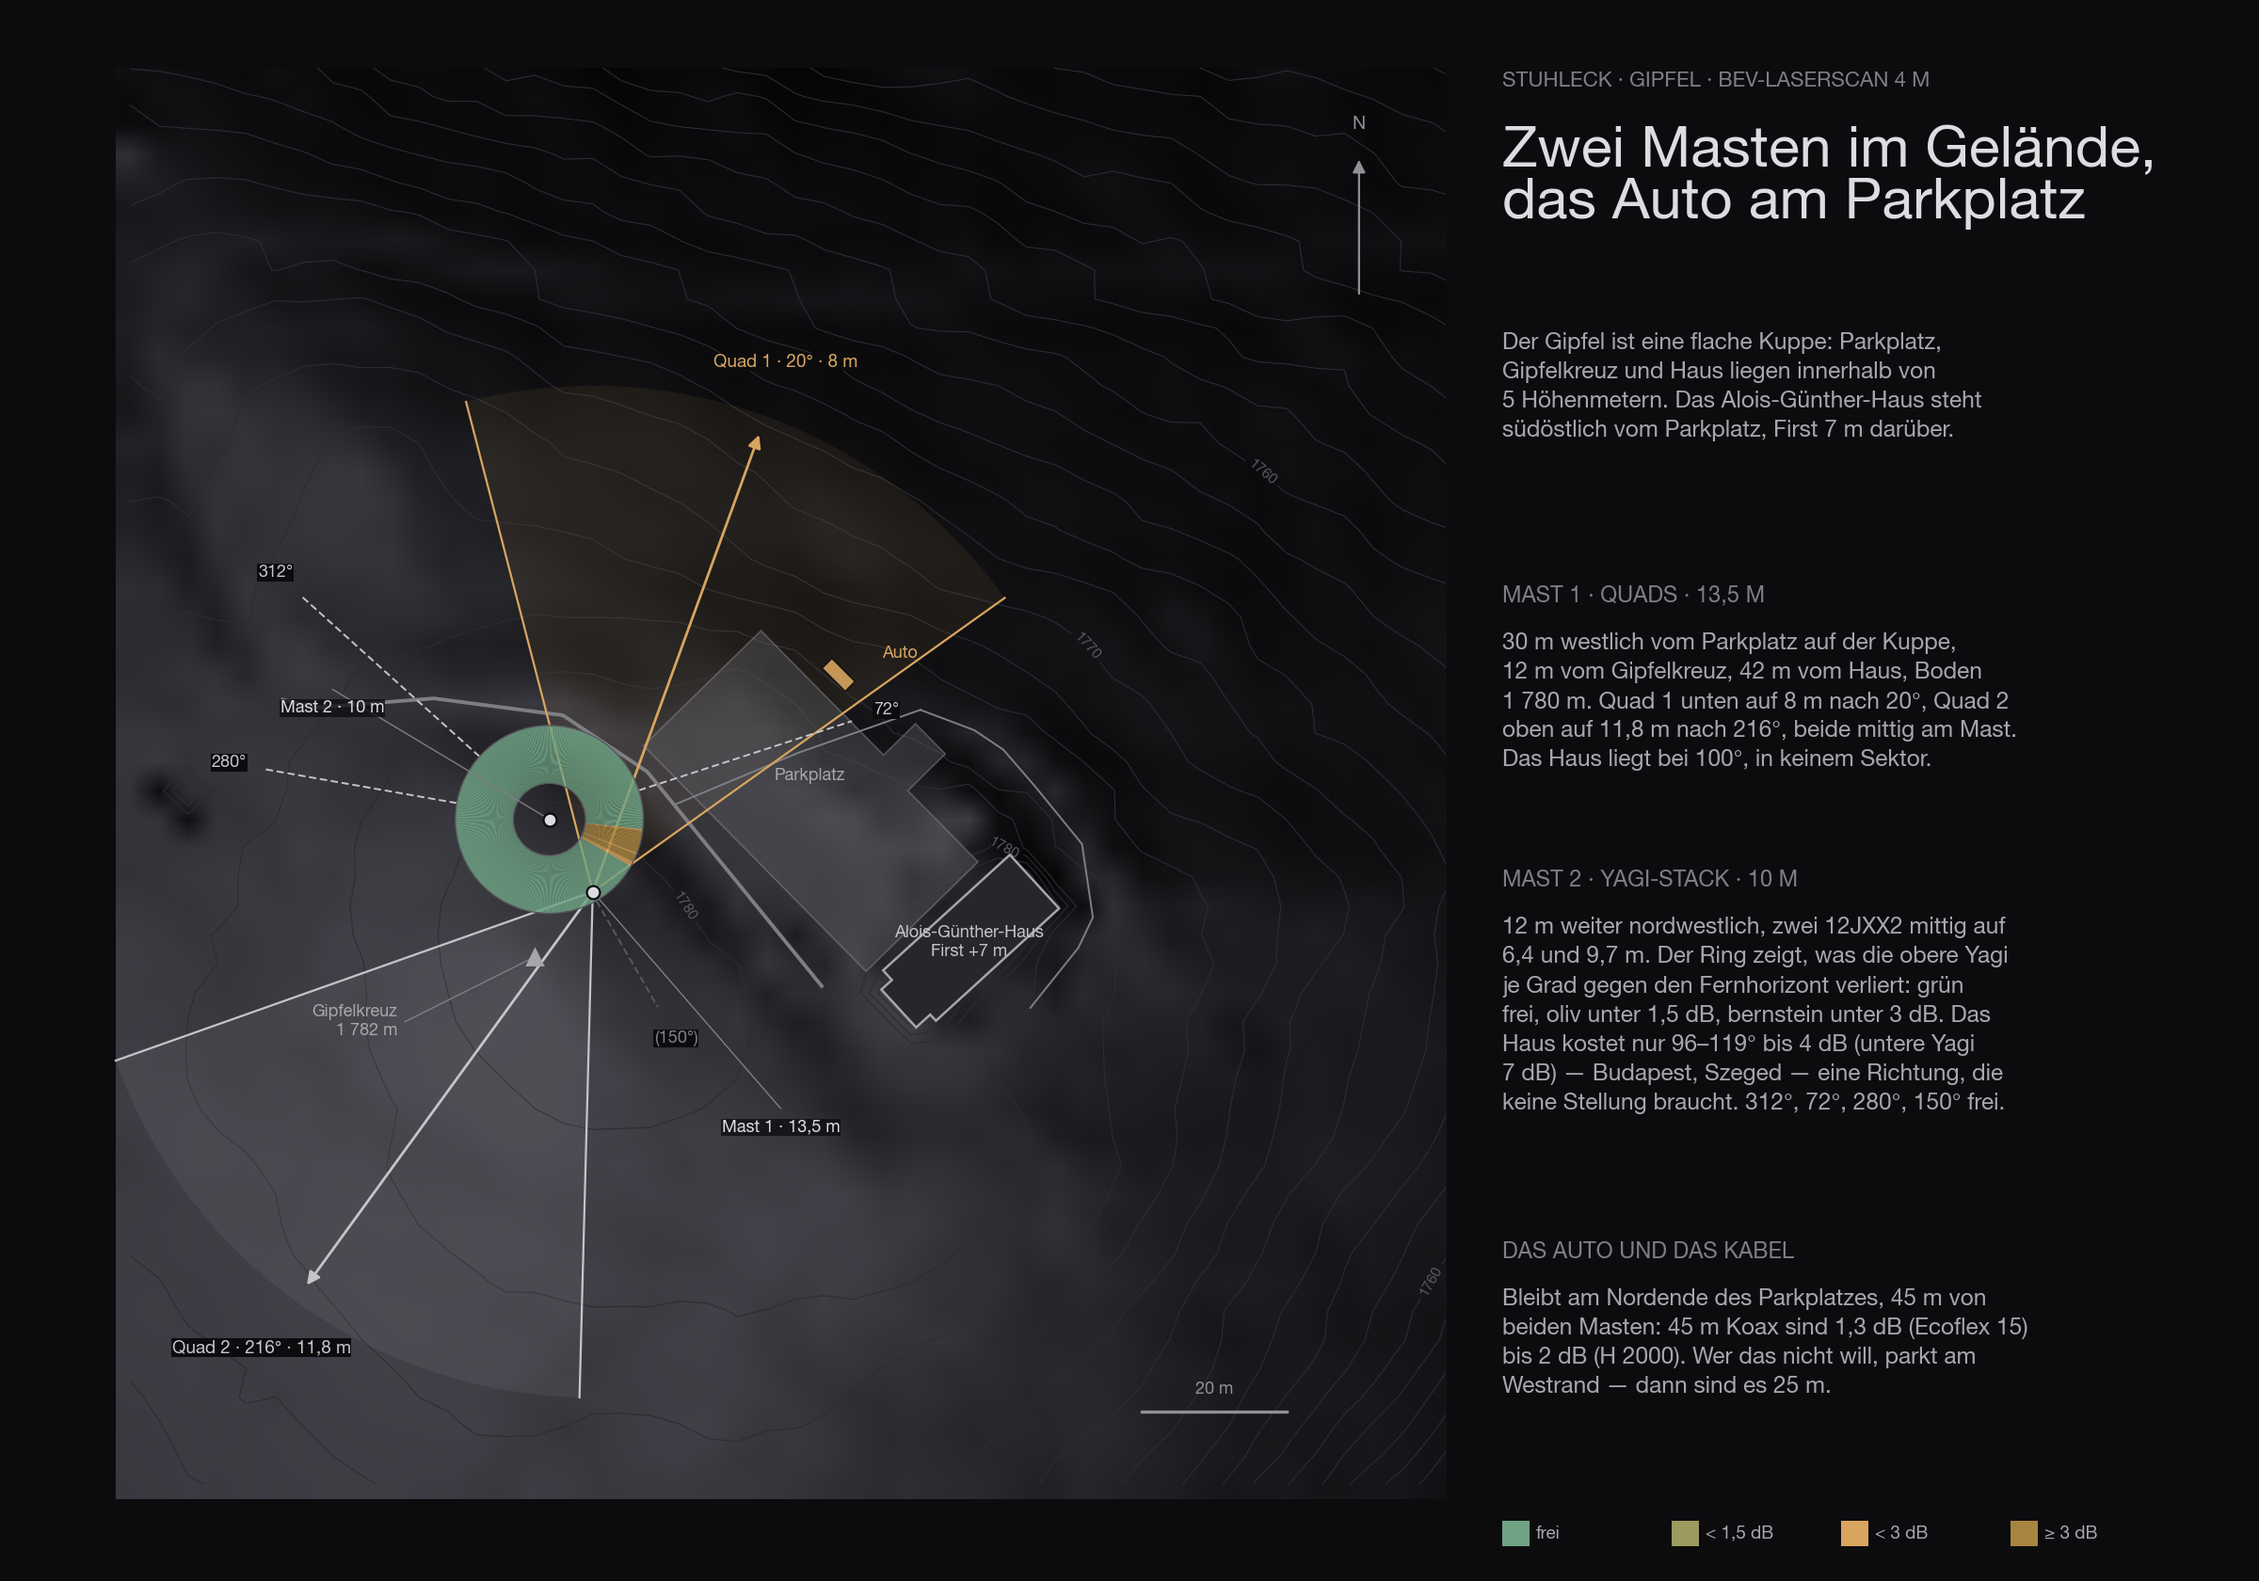
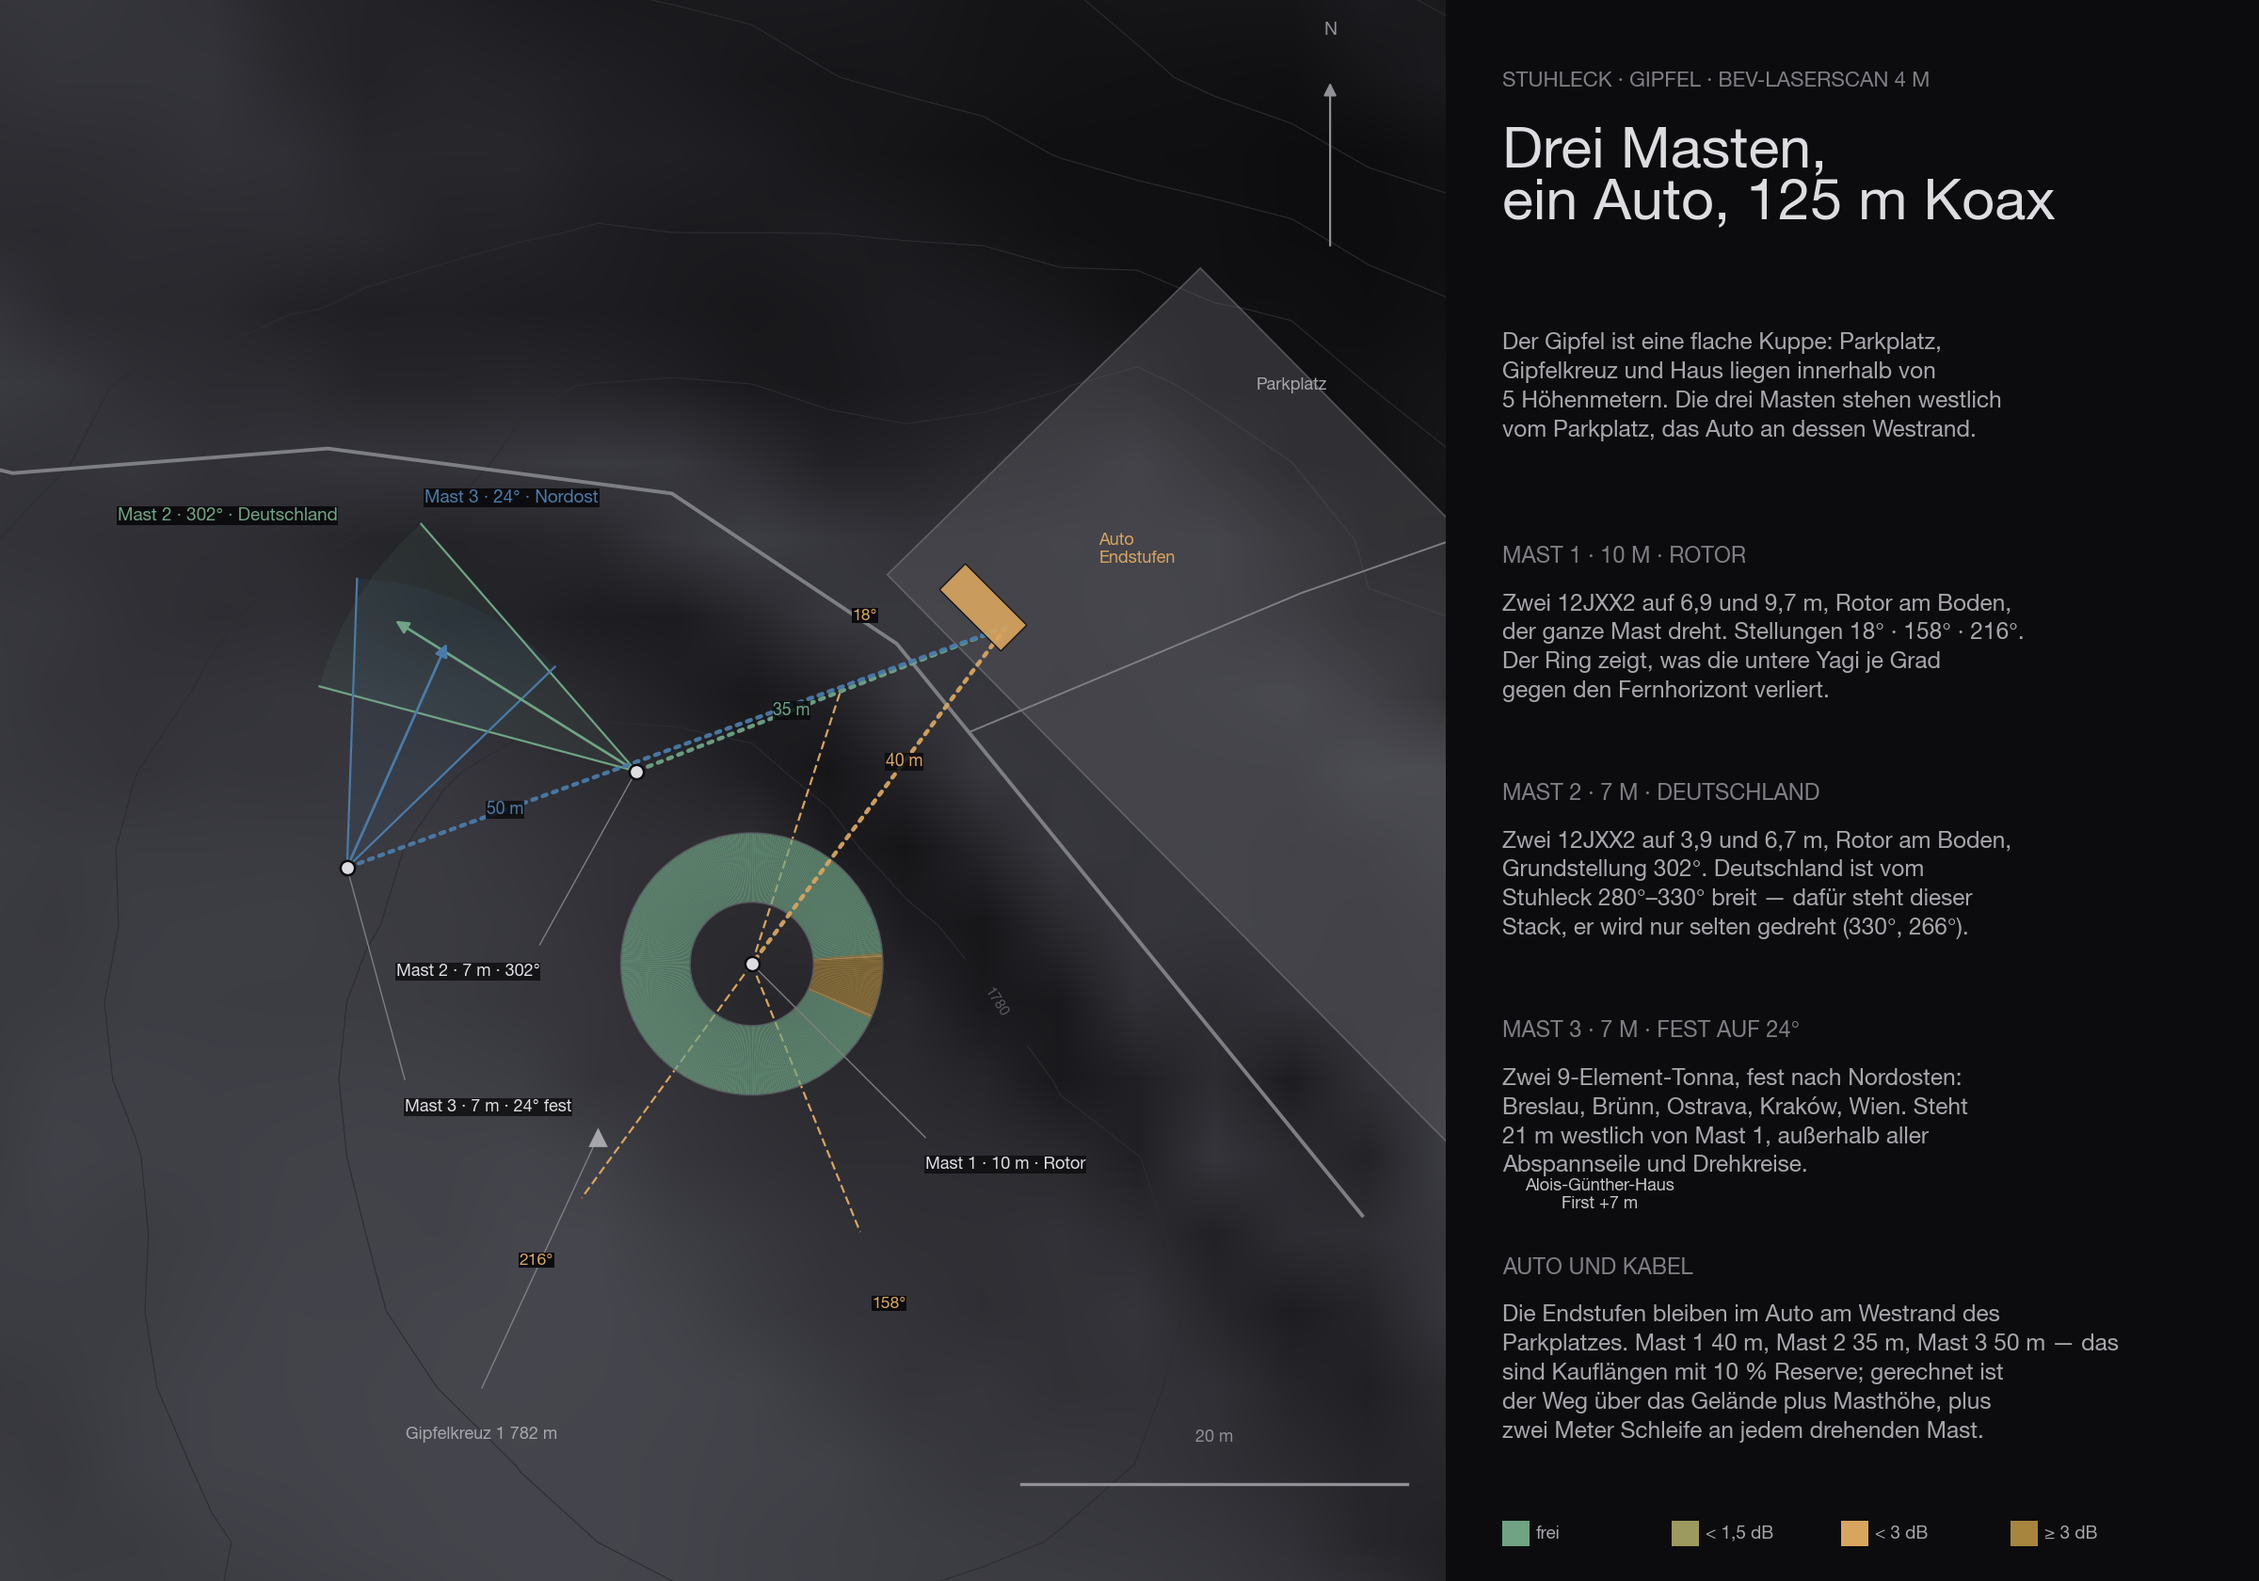
Stuhleck: Lageplan auf drei Masten, Koaxwege und Auto
Der Lageplan zeigte noch den ersten Plan — zwei Masten mit Quads, kein
Kabel, kein Auto —, waehrend Text und 3D-Szene laengst bei drei Masten
sind. Neu gezeichnet aus dem Laserscan:

  Mast 1  10 m, Rotor am Boden, 2 x 12JXX2, Stellungen 18/158/216 als
          gestrichelte Strahlen, dazu der Ring mit dem Verlust der unteren
          Yagi je Grad
  Mast 2   7 m, 2 x 12JXX2, Grundstellung 302 Grad nach Deutschland
  Mast 3   7 m, 2 x 9-el-Tonna fest auf 24 Grad
  Auto     am Westrand des Parkplatzes, die drei Koaxwege gepunktet und
           mit ihren Kauflaengen beschriftet

Die Kabellaengen rechnet `kabel3.py` mit derselben Formel wie die 3D-Szene
(Weg ueber das Laserscan-Gelaende + Masthoehe + Schleife am drehenden Mast
+ 2 m ins Auto, +10 % auf volle 5 m): 40 / 35 / 50 m, zusammen 125 m. Sie
stimmen mit den Zahlen ueberein, die seit dem 30.09. im Text stehen — die
Grafik ist also nicht neu erfunden, sondern nachgezogen.

Der Plan haengt jetzt im Abschnitt "Masten und Abspannung", der den
heutigen Stand beschreibt, statt im frueheren Quad-Abschnitt; dort steht
ein Satz, der nach unten verweist. Eine Grafik je Sache, am richtigen
Platz.

Werkzeug: `stuhleck/lageplan_st3.py` (loest lageplan_st.py ab) liest
kabel3.json und final_plan3.json, damit Plan und Szene nicht
auseinanderlaufen koennen.

Nebenher repariert: neun Skripte in horizont-werkzeug zeigten noch auf den
Sitzungs-Scratchpad von Mitte September, den macOS laengst geloescht hat —
[…]

diff --git a/src/content/posts/es/stuhleck-horizont.md b/src/content/posts/es/stuhleck-horizont.md
@@ -57,9 +57,7 @@ El plan del Feuerkogel — dos cuadros fijos hacia Alemania, la Yagi para el res
 
 En el mástil 2 van dos Yagis de 12 elementos una sobre otra, a 6,4 y 9,7 metros, montadas por el centro del boom y girando juntas sobre el tubo del rotor — aquí no hay ningún tejado que estorbe a la de abajo. El stack tiene tres posiciones. **312°** es la que no se puede omitir: la ventana alemana, Núremberg, Ratisbona, Passau, Linz, Erfurt, 225 estaciones a 509 kilómetros de media — y desde ahí veinte grados más allá, hacia 335° a 345° a través de la Rax, donde esperan Praga, Dresde y Berlín con cuatro a ocho decibelios. **72°** es el hueco entre los cuadros: Bratislava, Košice, Leópolis, 132 estaciones, entre ellas 46 logs ucranianos. **280°** trae Múnich, Innsbruck y Suiza, 136. Quien prefiera coleccionar países antes que Baviera toma **150°** en vez de 280°: Sarajevo, Split, el norte de Bosnia, 95. Con las tres posiciones son 1473 de las 1741 estaciones alcanzables, el 85 por ciento, 663 000 kilómetros en suma — más de lo que tiene el Feuerkogelhaus en total.
 
-![Plano de situación de la cumbre del Stuhleck a partir del escaneo láser: aparcamiento, Alois-Günther-Haus, cruz de la cumbre, dos mástiles treinta metros al oeste del aparcamiento sobre la loma con las cuñas de los cuadros a 20° y 216° y un anillo alrededor del mástil 2 que muestra grado a grado la pérdida de la Yagi — verde en todo el contorno, ámbar solo de 96° a 119°](../../../assets/karten/stuhleck-lageplan.png)
-
-El escaneo láser decide dónde van los mástiles. La cumbre es una loma plana; aparcamiento, cruz y refugio quedan dentro de cinco metros de desnivel; el refugio está al sureste del aparcamiento, la cumbrera siete metros por encima. Desde el centro del aparcamiento una antena a diez metros paga hasta ocho decibelios entre 121° y 175° — el norte de Croacia, Bosnia. Treinta metros más al oeste, sobre la loma entre el aparcamiento y la cruz, el refugio ha pasado a 100° y ya no hace nada: los dos cuadros están libres en sus sectores, también el de abajo a ocho metros, y el stack solo pierde entre 96° y 119° — Budapest, Szeged — cuatro decibelios arriba y siete abajo, una dirección que ninguna de sus tres posiciones necesita. Ahí van los mástiles, a doce metros uno de otro, el mástil 1 a doce metros de la cruz y 42 del refugio, el mástil 2 a diecinueve y 51. El coche se queda en el aparcamiento, 45 metros de cable, de uno a dos decibelios. El Stuhleck es el primer emplazamiento de la serie en el que ningún tejado importa.
+El escaneo láser decide dónde van los mástiles. La cumbre es una loma plana; aparcamiento, cruz y refugio quedan dentro de cinco metros de desnivel; el refugio está al sureste del aparcamiento, la cumbrera siete metros por encima. Desde el centro del aparcamiento una antena a diez metros paga hasta ocho decibelios entre 121° y 175° — el norte de Croacia, Bosnia. Treinta metros más al oeste, sobre la loma entre el aparcamiento y la cruz, el refugio ha pasado a 100° y ya no hace nada: los dos cuadros están libres en sus sectores, también el de abajo a ocho metros, y el stack solo pierde entre 96° y 119° — Budapest, Szeged — cuatro decibelios arriba y siete abajo, una dirección que ninguna de sus tres posiciones necesita. Ahí van los mástiles, a doce metros uno de otro, el mástil 1 a doce metros de la cruz y 42 del refugio, el mástil 2 a diecinueve y 51. El coche se queda en el aparcamiento. El Stuhleck es el primer emplazamiento de la serie en el que ningún tejado importa. Hasta aquí el primer plan; cómo queda la instalación hoy —tres mástiles, los tendidos de coaxial calculados y el coche— lo muestra el plano de situación más abajo.
 
 ## En tres dimensiones
 
@@ -113,6 +111,8 @@ El [plano de situación en PDF, revisión 4](/karten/stuhleck-lageplan-antennena
 **Añadido, 29 de septiembre: también dos Yagis en el mástil 1.** En lugar del stack de cuadros, un segundo stack de 12JXX2 va en el rotor del mástil 1, a 6,4 y 9,7 metros, como en el Feuerkogel. El lóbulo se estrecha, 34 en vez de 69 grados, con 3,3 decibelios más. Las tres posiciones, calculadas con la misma regla y fuera del sector prohibido: **18°** Breslavia, Brno, Viena, Poznań; **158°** Sarajevo, Split, Banja Luka, Skopie; **216°** Liubliana, Rijeka, Trieste, Venecia, Bolonia. Con 500 vatios en cada stack son **948 estaciones en vez de 894**, Alemania 316 como antes, y 330 000 en vez de 270 000 kilómetros — la ganancia llega más lejos. Conmutado con un kilovatio son 1308 en vez de 1331: a corta distancia el cuadro ancho consigue más, 1006 frente a 869 hasta 500 kilómetros; las Yagis consiguen a cambio la distancia. La hoja de arriba y la escena 3D ya muestran los dos stacks de Yagis; el texto de arriba describe todavía el plan con los cuadros.
 
 ## Mástiles y vientos
+
+![Plano de situación de la cumbre del Stuhleck a partir del escaneo láser: aparcamiento, cruz de la cumbre y tres mástiles al oeste — el mástil 1 con el anillo que muestra grado a grado la pérdida de la Yagi inferior y sus tres posiciones de rotor a trazos en 18°, 158° y 216°, el mástil 2 con la cuña verde hacia 302° y el mástil 3 con la azul hacia 24°; desde el coche en el borde oeste del aparcamiento tres tendidos de coaxial punteados llegan a los mástiles, rotulados con 40, 35 y 50 metros](../../../assets/karten/stuhleck-lageplan.png)
 
 <figure class="szene">
   <iframe src="/stuhleck-masten-3d.html?v=8" title="Cumbre del Stuhleck en 3D con tres mástiles: dos veces dos 12JXX2 con rotor en el suelo y dos Tonna de 9 elementos fijas en 24°, cada viento con longitud y ángulo" loading="lazy" allowfullscreen></iframe>

diff --git a/src/content/posts/stuhleck-horizont.md b/src/content/posts/stuhleck-horizont.md
@@ -57,9 +57,7 @@ Der Plan vom Feuerkogel — zwei feste Quads nach Deutschland, die Yagi für den
 
 Auf Mast 2 sitzen zwei 12-Element-Yagis übereinander, auf 6,4 und 9,7 Metern, mittig am Boom und gemeinsam auf dem Drehrohr — hier gibt es kein Dach, das der unteren im Weg stünde. Der Stack hat drei Stellungen. **312°** ist die, die man nicht weglassen kann: das deutsche Fenster, Nürnberg, Regensburg, Passau, Linz, Erfurt, 225 Stationen mit 509 Kilometern im Schnitt — und von dort aus zwanzig Grad weiter nach 335° bis 345° durch die Rax, wo Prag, Dresden und Berlin mit vier bis acht Dezibel warten. **72°** ist die Lücke zwischen den Quads: Bratislava, Košice, Lwiw, 132 Stationen, darunter 46 ukrainische Logs. **280°** bringt München, Innsbruck und die Schweiz, 136. Wer lieber Länder sammelt als Bayern, nimmt statt 280° die **150°**: Sarajevo, Split, Nordbosnien, 95. Mit den drei Stellungen sind es 1 473 der 1 741 erreichbaren Stationen, 85 Prozent, 663 000 Summenkilometer — mehr, als das Feuerkogelhaus insgesamt hat.
 
-![Lageplan des Stuhleck-Gipfels aus dem Laserscan: Parkplatz, Alois-Günther-Haus, Gipfelkreuz, zwei Masten dreißig Meter westlich vom Parkplatz auf der Kuppe mit den Quad-Keilen bei 20° und 216° und ein Ring um Mast 2, der je Grad den Verlust der Yagi zeigt — rundum grün, nur bei 96° bis 119° bernstein](../../assets/karten/stuhleck-lageplan.png)
-
-Der Laserscan entscheidet, wo die Masten stehen. Der Gipfel ist eine flache Kuppe, Parkplatz, Gipfelkreuz und Haus liegen innerhalb von fünf Höhenmetern; das Haus steht südöstlich vom Parkplatz, der First sieben Meter darüber. Von der Parkplatzmitte aus kostet es eine Antenne auf zehn Metern zwischen 121° und 175° bis zu acht Dezibel — Nordkroatien, Bosnien. Dreißig Meter weiter westlich, auf der Kuppe zwischen Parkplatz und Gipfelkreuz, ist das Haus auf 100° gerückt und tut nichts mehr: beide Quads sind in ihren Sektoren frei, auch der untere auf acht Metern, und der Stack verliert nur zwischen 96° und 119° — Budapest, Szeged — vier Dezibel oben und sieben unten, eine Richtung, die keine seiner drei Stellungen braucht. Dort stehen die Masten, zwölf Meter auseinander, Mast 1 zwölf Meter vom Gipfelkreuz und 42 vom Haus, Mast 2 neunzehn und 51. Das Auto bleibt am Parkplatz, 45 Meter Kabel, ein bis zwei Dezibel. Das Stuhleck ist der erste Standort der Reihe, an dem kein Dach eine Rolle spielt.
+Der Laserscan entscheidet, wo die Masten stehen. Der Gipfel ist eine flache Kuppe, Parkplatz, Gipfelkreuz und Haus liegen innerhalb von fünf Höhenmetern; das Haus steht südöstlich vom Parkplatz, der First sieben Meter darüber. Von der Parkplatzmitte aus kostet es eine Antenne auf zehn Metern zwischen 121° und 175° bis zu acht Dezibel — Nordkroatien, Bosnien. Dreißig Meter weiter westlich, auf der Kuppe zwischen Parkplatz und Gipfelkreuz, ist das Haus auf 100° gerückt und tut nichts mehr: beide Quads sind in ihren Sektoren frei, auch der untere auf acht Metern, und der Stack verliert nur zwischen 96° und 119° — Budapest, Szeged — vier Dezibel oben und sieben unten, eine Richtung, die keine seiner drei Stellungen braucht. Dort stehen die Masten, zwölf Meter auseinander, Mast 1 zwölf Meter vom Gipfelkreuz und 42 vom Haus, Mast 2 neunzehn und 51. Das Auto bleibt am Parkplatz. Das Stuhleck ist der erste Standort der Reihe, an dem kein Dach eine Rolle spielt. So weit der erste Plan; wie die Anlage heute aussteht — drei Masten, die gerechneten Kabelwege und das Auto — zeigt der Lageplan weiter unten.
 
 ## In drei Dimensionen
 
@@ -113,6 +111,8 @@ Der [Lageplan als PDF, Stand 4](/karten/stuhleck-lageplan-antennenanlage.pdf) ha
 **Nachtrag, 29. September: auch auf Mast 1 zwei Yagis.** Statt des Quad-Stacks kommt ein zweiter 12JXX2-Stack auf den Rotor von Mast 1, auf 6,4 und 9,7 Metern, wie am Feuerkogel. Die Keule wird schmaler, 34 statt 69 Grad, und hat 3,3 Dezibel mehr. Die drei Stellungen, nach derselben Regel gerechnet und außerhalb des Tabus: **18°** Breslau, Brünn, Wien, Poznań; **158°** Sarajevo, Split, Banja Luka, Skopje; **216°** Ljubljana, Rijeka, Triest, Venedig, Bologna. Mit je 500 Watt auf beiden Stacks sind es **948 Stationen statt 894**, Deutschland 316 wie vorher, und 330 000 statt 270 000 Kilometer — der Gewinn trägt weiter. Umgeschaltet mit einem Kilowatt sind es 1 308 statt 1 331: Im Nahbereich holt die breite Quad mehr, 1 006 gegen 869 bis 500 Kilometer, die Yagis holen dafür die Ferne. Das Blatt oben und die 3D-Szene zeigen schon beide Yagi-Stacks; der Text darüber beschreibt noch den Plan mit den Quads.
 
 ## Masten und Abspannung
+
+![Lageplan des Stuhleck-Gipfels aus dem Laserscan: Parkplatz, Gipfelkreuz und drei Masten westlich davon — Mast 1 mit dem Ring, der je Grad den Verlust der unteren Yagi zeigt, und seinen drei gestrichelten Rotorstellungen bei 18°, 158° und 216°, Mast 2 mit dem grünen Keil nach 302° und Mast 3 mit dem blauen nach 24°; vom Auto am Westrand des Parkplatzes laufen drei gepunktete Koaxwege zu den Masten, beschriftet mit 40, 35 und 50 Metern](../../assets/karten/stuhleck-lageplan.png)
 
 <figure class="szene">
   <iframe src="/stuhleck-masten-3d.html?v=8" title="Stuhleck-Gipfel in 3D mit drei Masten: zweimal zwei 12JXX2 auf Rotor am Boden und zwei 9-Element-Tonnas fest auf 24°, alle Abspannseile mit Länge und Winkel" loading="lazy" allowfullscreen></iframe>
